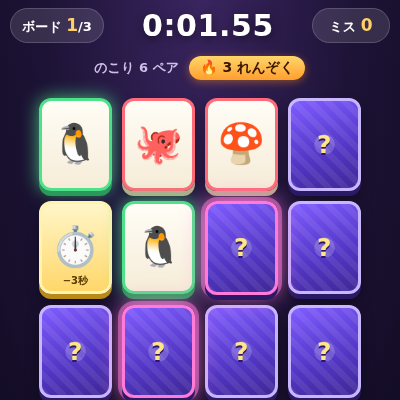
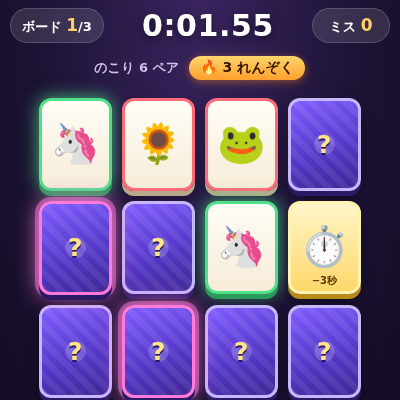
神経衰弱タイムアタック：完成版（試遊室に公開）
Claude-Session: https://claude.ai/code/session_01G9HjaixTmY2WVcRow5FnGD

diff --git a/vappa-test/games/shinkei/index.html b/vappa-test/games/shinkei/index.html
@@ -66,6 +66,7 @@
   /* ---------- 演出 ---------- */
   #banner{position:fixed;left:0;right:0;top:44%;transform:translateY(-50%);text-align:center;z-index:6;pointer-events:none;font-weight:900;}
   #banner .t{display:inline-block;font-size:40px;color:#fff;-webkit-text-stroke:0;text-shadow:0 0 0 #000,3px 3px 0 #2a1450,-3px 3px 0 #2a1450,3px -3px 0 #2a1450,-3px -3px 0 #2a1450,0 6px 16px rgba(0,0,0,.5);animation:bn .9s forwards;}
+  #banner.low .t{font-size:34px;}
   #banner .t small{display:block;font-size:17px;margin-top:4px;color:#ffe9a8;}
   @keyframes bn{0%{transform:scale(.3);opacity:0;}18%{transform:scale(1.15);opacity:1;}30%{transform:scale(1);}80%{opacity:1;}100%{transform:translateY(-16px);opacity:0;}}
   #banner .t.stay{animation:bnS .3s forwards;}
@@ -200,11 +201,11 @@
     cw=Math.min(cw,ch/1.28,112); ch=cw*1.28;
     L.cw=cw;L.ch=ch;L.gap=gap;
     L.ox=(W-(cw*B.cols+gap*(B.cols-1)))/2;
-    L.oy=top+Math.max(0,(availH-(ch*B.rows+gap*(B.rows-1)))*0.45);
+    L.oy=top+Math.max(0,(availH-(ch*B.rows+gap*(B.rows-1)))*0.3);
     boardEl.style.setProperty("--e",Math.round(cw*0.54)+"px");
     boardEl.style.setProperty("--q",Math.round(cw*0.34)+"px");
     $("peekbar").style.top=(L.oy-16)+"px";$("peeklbl").style.top=(L.oy-50)+"px";
-    var bb=L.oy+ch*B.rows+gap*(B.rows-1);L.lowY=bb+(H-bb-34)/2;
+    var bb=L.oy+ch*B.rows+gap*(B.rows-1);L.lowY=bb+Math.max(44,(H-bb-30)/2);
     if(S.cards)for(var i=0;i<S.cards.length;i++)place(S.cards[i]);
   }
   function place(c){var B=BOARDS[S.board],col=c.slot%B.cols,row=(c.slot/B.cols)|0;
@@ -214,7 +215,7 @@
 
   /* ===================== 演出ヘルパ ===================== */
   function emo(t){return String(t).replace(/(\p{Extended_Pictographic}\uFE0F?)/gu,'<span class="emj">$1</span>');}
-  function banner(txt,sub,stay,low){bannerEl.style.top=low&&L.lowY?L.lowY+"px":"44%";bannerEl.innerHTML='<span class="t'+(stay?' stay':'')+'">'+emo(txt)+(sub?'<small>'+emo(sub)+'</small>':'')+'</span>';}
+  function banner(txt,sub,stay,low){bannerEl.style.top=low&&L.lowY?L.lowY+"px":"44%";bannerEl.className=low?"low":"";bannerEl.innerHTML='<span class="t'+(stay?' stay':'')+'">'+emo(txt)+(sub?'<small>'+emo(sub)+'</small>':'')+'</span>';}
   function clearBanner(){bannerEl.innerHTML="";}
   function center(el){var r=el.getBoundingClientRect();return {x:r.left+r.width/2,y:r.top+r.height/2};}
   function floatText(txt,x,y,cls){var d=document.createElement("div");d.className="fl "+cls;d.innerHTML=emo(txt);d.style.left=Math.max(64,Math.min(window.innerWidth-64,x))+"px";d.style.top=y+"px";document.body.appendChild(d);setTimeout(function(){d.remove();},1050);}

diff --git a/vappa-test/index.html b/vappa-test/index.html
@@ -63,7 +63,7 @@ var GAMES = [
   { id:"tsunagi", title:"一筆書きつなぎ", emoji:"🍡", blurb:"同じおもちを指でなぞってつなげる。長いほど大爆発。", unit:"点" },
   { id:"fukuwarai", title:"福笑い", emoji:"👺", blurb:"流れてくる目・鼻・口をタップで落とす。どんな顔になる？", unit:"点" }
 ];
-var READY = ["beer","steak","hata","lturn","yuka","darts","kazuate","softcream"]; // 遊べる状態のゲームID
+var READY = ["beer","steak","hata","lturn","yuka","darts","kazuate","softcream","shinkei"]; // 遊べる状態のゲームID
 function best(id){ try{ return localStorage.getItem("best_"+id); }catch(e){ return null; } }
 function setBest(id,v,low){ try{ var b=best(id); if(b===null||(low?+v<+b:+v>+b)) localStorage.setItem("best_"+id,v); }catch(e){} }
 var list=document.getElementById("list"), stage=document.getElementById("stage"), frame=document.getElementById("frame"), cur=null;
